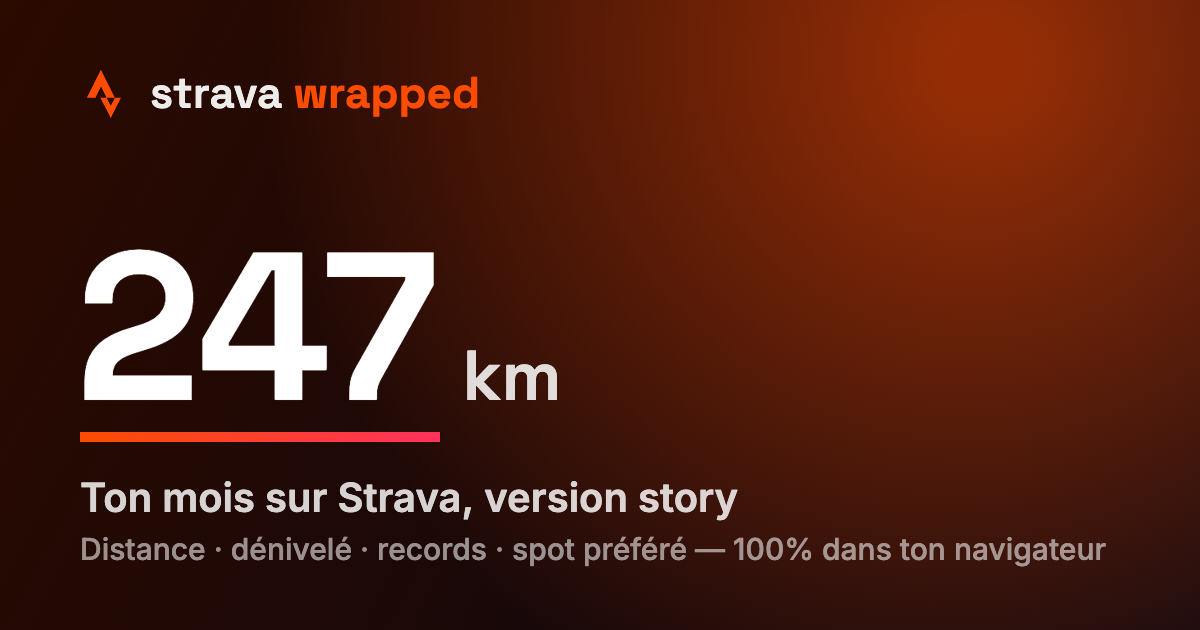
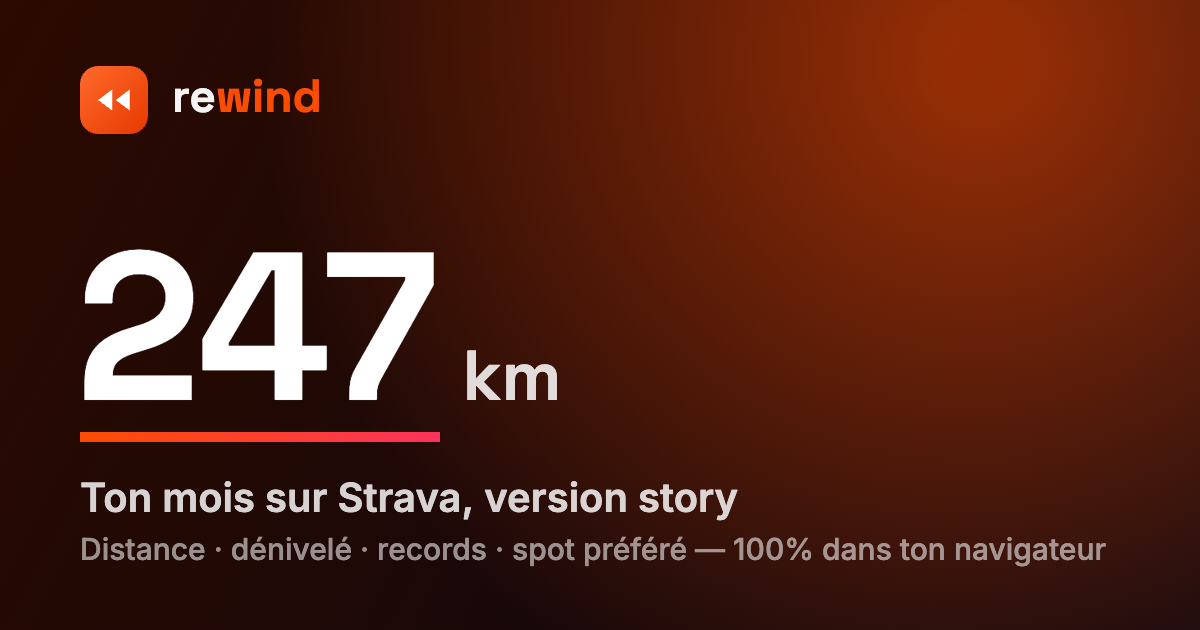
Rename to Rewind; tighter month heatmap; accent/bg tweaks; fit-to-frame card
- Rename the app from "Strava Wrapped" to "Rewind" (avoids stacking the
  Strava + Spotify "Wrapped" trademarks): title/OG, README, package name,
  PWA manifest, regenerated og-image, and the wordmark (re + bold wind).
  The app's own logo drops the Strava chevron for a neutral rewind glyph;
  "Propulsé par Strava" attribution stays on the card. IndexedDB name kept
  as-is to avoid resetting existing local caches.
- Month calendar heatmap: cap its width so cells stay small and elegant
  instead of stretching across the whole card (year grid still full-width).
- Add a "Menthe" accent (teal->blue); remove the "Strava" background.
- Post/Square formats no longer render data out of frame: StoryCard scales
  its body just enough to fit the canvas (measured), so nothing is clipped
  on the border; Post content also lightened so the scale stays subtle.

Changed region(s): [[0.0617, 0.0905, 0.4008, 0.2111]]

diff --git a/src/components/StoryCard.jsx b/src/components/StoryCard.jsx
@@ -1,4 +1,4 @@
-import { forwardRef } from 'react'
+import { forwardRef, useRef, useState, useLayoutEffect } from 'react'
 import { motion } from 'framer-motion'
 import { MapPin, Mountain, Timer, Gauge, CalendarDays, Route, Award, TrendingUp, TrendingDown, Sunrise, Sun, Sunset, Moon, Flame } from 'lucide-react'
 import AnimatedNumber from './AnimatedNumber.jsx'
@@ -18,7 +18,7 @@ const item = {
 
 const DENSITY = {
   story: { types: 4, records: 4, races: 3, highlights: 3, showTypes: true, showRecords: true, showMap: true, mapH: 280 },
-  portrait: { types: 3, records: 0, races: 2, highlights: 2, showTypes: true, showRecords: false, showMap: true, mapH: 220 },
+  portrait: { types: 3, records: 0, races: 1, highlights: 0, showTypes: true, showRecords: false, showMap: true, mapH: 176 },
   square: { types: 3, records: 0, races: 0, highlights: 0, showTypes: true, showRecords: false, showMap: false, mapH: 0 },
 }
 
@@ -79,6 +79,26 @@ const StoryCard = forwardRef(function StoryCard(
   const scrimVal = scrim != null ? scrim : photo ? 0.7 : background?.scrim ?? 0.5
   const acc = accent || { from: '#fc4c02', to: '#ff2d6f' }
 
+  // Ajustement d'échelle : si le contenu dépasse le canevas (formats courts Post/Carré),
+  // on le réduit juste ce qu'il faut pour qu'AUCUN bloc ne soit rogné par la bordure.
+  // Garantie universelle, quel que soit le format ou la quantité de données.
+  const bodyRef = useRef(null)
+  const [fit, setFit] = useState(1)
+  useLayoutEffect(() => {
+    const el = bodyRef.current
+    if (!el) return
+    const measure = () => {
+      const avail = el.clientHeight
+      const need = el.scrollHeight
+      setFit(need > avail + 2 ? Math.max(0.6, avail / need) : 1)
+    }
+    measure()
+    const ro = new ResizeObserver(measure)
+    ro.observe(el)
+    return () => ro.disconnect()
+    // eslint-disable-next-line react-hooks/exhaustive-deps
+  }, [formatId, summary, showDeltas, showHeatmap, spot, privacy, comparison, typeCompare])
+
   const rootStyle = {
     width: fmt.w,
     height: fmt.h,
@@ -138,7 +158,7 @@ const StoryCard = forwardRef(function StoryCard(
           <div className="month">{periodLabel}</div>
         </motion.div>
 
-        <div className="c-body">
+        <div className="c-body" ref={bodyRef} style={fit < 1 ? { transform: `scale(${fit})`, transformOrigin: 'top center' } : undefined}>
         {/* hero */}
         <motion.div className="hero" variants={item}>
           <div className="label">Distance parcourue</div>
@@ -303,7 +323,7 @@ const StoryCard = forwardRef(function StoryCard(
                 <div className="s-name">{spot ? spot.name : `${summary.streak} jours`}</div>
               </div>
             </div>
-            <div className="powered">Propulsé par <b>Strava</b><br />{handle || 'wrapped'}</div>
+            <div className="powered">Propulsé par <b>Strava</b><br />{handle || 'rewind'}</div>
           </motion.div>
         )}
         </div>

diff --git a/index.html b/index.html
@@ -6,7 +6,7 @@
     <meta name="viewport" content="width=device-width, initial-scale=1.0, viewport-fit=cover" />
     <meta name="theme-color" content="#0b0b0f" />
     <meta name="description" content="Transforme ton mois ou ton année Strava en une story Instagram magnifique. 100% dans ton navigateur, rien n'est stocké." />
-    <title>Strava Wrapped · ton mois sur Strava en story</title>
+    <title>Rewind · ton mois sur Strava en story</title>
 
     <!-- Icônes (PNG + Apple, en plus du SVG data-uri pour les navigateurs qui le gèrent) -->
     <link rel="icon" type="image/png" sizes="512x512" href="/icon-512.png" />
@@ -15,16 +15,16 @@
 
     <!-- Aperçu de lien (Open Graph / Twitter). Les URLs d'image sont relatives : elles
          marchent sur Slack/Discord/WhatsApp/iMessage. Pour Twitter/Facebook, remplace-les
-         par l'URL absolue de ton domaine (ex. https://strava-wrapped.netlify.app/og-image.png). -->
+         par l'URL absolue de ton domaine (ex. https://rewind.netlify.app/og-image.png). -->
     <meta property="og:type" content="website" />
-    <meta property="og:site_name" content="Strava Wrapped" />
-    <meta property="og:title" content="Strava Wrapped · ta story mensuelle" />
+    <meta property="og:site_name" content="Rewind" />
+    <meta property="og:title" content="Rewind · ta story sportive mensuelle" />
     <meta property="og:description" content="Transforme ton mois ou ton année Strava en une carte prête à poster : distance, dénivelé, records, spot préféré. 100% dans ton navigateur." />
     <meta property="og:image" content="/og-image.png" />
     <meta property="og:image:width" content="1200" />
     <meta property="og:image:height" content="630" />
     <meta name="twitter:card" content="summary_large_image" />
-    <meta name="twitter:title" content="Strava Wrapped · ta story mensuelle" />
+    <meta name="twitter:title" content="Rewind · ta story sportive mensuelle" />
     <meta name="twitter:description" content="Ton mois Strava en une story qui claque. 100% dans ton navigateur, rien n'est stocké." />
     <meta name="twitter:image" content="/og-image.png" />
   </head>

diff --git a/src/App.jsx b/src/App.jsx
@@ -187,9 +187,9 @@ export default function App() {
           <header className="topbar">
             <div className="brand">
               <span className="mark">
-                <svg width="18" height="18" viewBox="0 0 24 24" fill="#fff" aria-hidden><path d="M15.387 17.944l-2.089-4.116h-3.065L15.387 24l5.15-10.172h-3.066m-7.008-5.599l2.836 5.598h4.172L10.463 0l-7 13.828h4.169" /></svg>
+                <svg width="18" height="18" viewBox="0 0 24 24" fill="#fff" aria-hidden><path d="M11 6v12l-8-6zM21 6v12l-8-6z" /></svg>
               </span>
-              <span className="name">strava <b>wrapped</b></span>
+              <span className="name">re<b>wind</b></span>
             </div>
             <span className="pill"><Lock size={13} /> Lien 100% local</span>
           </header>
@@ -206,9 +206,9 @@ export default function App() {
         <header className="topbar">
           <div className="brand">
             <span className="mark">
-              <svg width="18" height="18" viewBox="0 0 24 24" fill="#fff" aria-hidden><path d="M15.387 17.944l-2.089-4.116h-3.065L15.387 24l5.15-10.172h-3.066m-7.008-5.599l2.836 5.598h4.172L10.463 0l-7 13.828h4.169" /></svg>
+              <svg width="18" height="18" viewBox="0 0 24 24" fill="#fff" aria-hidden><path d="M11 6v12l-8-6zM21 6v12l-8-6z" /></svg>
             </span>
-            <span className="name">strava <b>wrapped</b></span>
+            <span className="name">re<b>wind</b></span>
           </div>
           {view === 'studio' ? (
             <div className="topbar-actions">

diff --git a/src/components/Heatmap.jsx b/src/components/Heatmap.jsx
@@ -34,8 +34,14 @@ export default function Heatmap({ data, accent = '#fc4c02' }) {
     })
   })
 
+  // Année : grille large (53 col.) qui remplit la largeur. Mois : seulement 7 colonnes,
+  // donc on borne la largeur pour garder des carrés fins et élégants (sinon ils s'étirent).
+  const svgStyle = isYear
+    ? { display: 'block', width: '100%', color: '#fff' }
+    : { display: 'block', width: 360, maxWidth: '100%', color: '#fff' }
+
   return (
-    <svg viewBox={`0 0 ${W} ${H}`} width="100%" style={{ display: 'block', color: '#fff' }} preserveAspectRatio="xMidYMid meet">
+    <svg viewBox={`0 0 ${W} ${H}`} style={svgStyle} preserveAspectRatio="xMidYMid meet">
       {rects}
     </svg>
   )

diff --git a/src/components/SharedView.jsx b/src/components/SharedView.jsx
@@ -30,7 +30,7 @@ export default function SharedView({ snapshot, onCreate }) {
   if (!props) {
     return (
       <div className="shared shared-empty">
-        <p>Ce lien Wrapped est illisible ou corrompu.</p>
+        <p>Ce lien Rewind est illisible ou corrompu.</p>
         <button className="btn btn-strava" onClick={onCreate}>Créer le mien</button>
       </div>
     )
@@ -44,7 +44,7 @@ export default function SharedView({ snapshot, onCreate }) {
         </div>
       </div>
       <div className="shared-cta">
-        <div className="shared-tagline">Créée avec <b>Strava Wrapped</b> · 100% dans le navigateur</div>
+        <div className="shared-tagline">Créée avec <b>Rewind</b> · 100% dans le navigateur</div>
         <button className="btn btn-strava" onClick={onCreate}>Crée le tien →</button>
       </div>
     </div>

diff --git a/src/data/backgrounds.js b/src/data/backgrounds.js
@@ -20,8 +20,6 @@ export const BACKGROUNDS = [
     css: 'radial-gradient(110% 100% at 20% 0%, #ff6a88 0%, transparent 55%), linear-gradient(160deg, #b5179e 0%, #560bad 100%)' },
   { id: 'carbon', name: 'Carbon', scrim: 0.4,
     css: 'radial-gradient(120% 120% at 50% -10%, #2a2a35 0%, #0c0c12 60%)' },
-  { id: 'strava', name: 'Strava', scrim: 0.4,
-    css: 'linear-gradient(160deg, #fc4c02 0%, #e63900 55%, #7a1d00 100%)' },
   // --- thème clair ---
   { id: 'paper', name: 'Paper', scrim: 0.18, light: true,
     css: 'radial-gradient(120% 110% at 80% 0%, #ffe9d6 0%, transparent 55%), linear-gradient(160deg, #fef6ee 0%, #f3e7da 100%)' },
@@ -40,6 +38,7 @@ export const ACCENTS = [
   { id: 'violet', name: 'Violet', from: '#7a5cff', to: '#ff2d6f' },
   { id: 'cyan', name: 'Cyan', from: '#00d4ff', to: '#5b8cff' },
   { id: 'lime', name: 'Citron', from: '#a3e635', to: '#16a34a' },
+  { id: 'mint', name: 'Menthe', from: '#2dd4bf', to: '#3b82f6' },
   { id: 'mono', name: 'Mono', from: '#ffffff', to: '#b9b9c6' },
 ]
 

diff --git a/src/components/Studio.jsx b/src/components/Studio.jsx
@@ -363,7 +363,7 @@ export default function Studio({ activities, athleteName, isDemo, coverageStart 
       await navigator.clipboard.writeText(url)
       setToast({ type: 'ok', msg: 'Lien copié 🔗 colle-le où tu veux' })
     } catch {
-      window.prompt('Copie ton lien Wrapped :', url)
+      window.prompt('Copie ton lien Rewind :', url)
     }
   }
 

diff --git a/src/index.css b/src/index.css
@@ -1,5 +1,5 @@
 /* ============================================================
-   Wrapped · ton mois sur Strava - design system
+   Rewind · ton mois sur Strava - design system
    ============================================================ */
 
 /* ---- Polices auto-hébergées (latin + latin-ext), voir src/assets/fonts/ ---- */

diff --git a/README.md b/README.md
@@ -1,6 +1,6 @@
-# Strava Wrapped
+# Rewind
 
-Turn a month or a full year of your Strava activities into a beautiful, shareable image, ready to post as an Instagram story. Think "Spotify Wrapped", but for your runs, rides, hikes and more.
+Turn a month or a full year of your Strava activities into a beautiful, shareable image, ready to post as an Instagram story. A recap for your runs, rides, hikes and more.
 
 100% client-side. No backend, no database, nothing stored on a server. Try it instantly with the built-in demo, no account needed.
 
@@ -83,6 +83,6 @@ Vite, React, Framer Motion, html-to-image and lucide-react. Self-hosted fonts (S
 
 ## License and attribution
 
-Released under the MIT License (see [LICENSE](LICENSE)). You are free to fork, modify and reuse it, including commercially. In return, please keep a visible credit to the original project, "Strava Wrapped" by Jimmy Marchetto, with a link back to this repository.
+Released under the MIT License (see [LICENSE](LICENSE)). You are free to fork, modify and reuse it, including commercially. In return, please keep a visible credit to the original project, "Rewind" by Jimmy Marchetto, with a link back to this repository.
 
 This project is not affiliated with Strava. "Powered by Strava" per their brand guidelines.